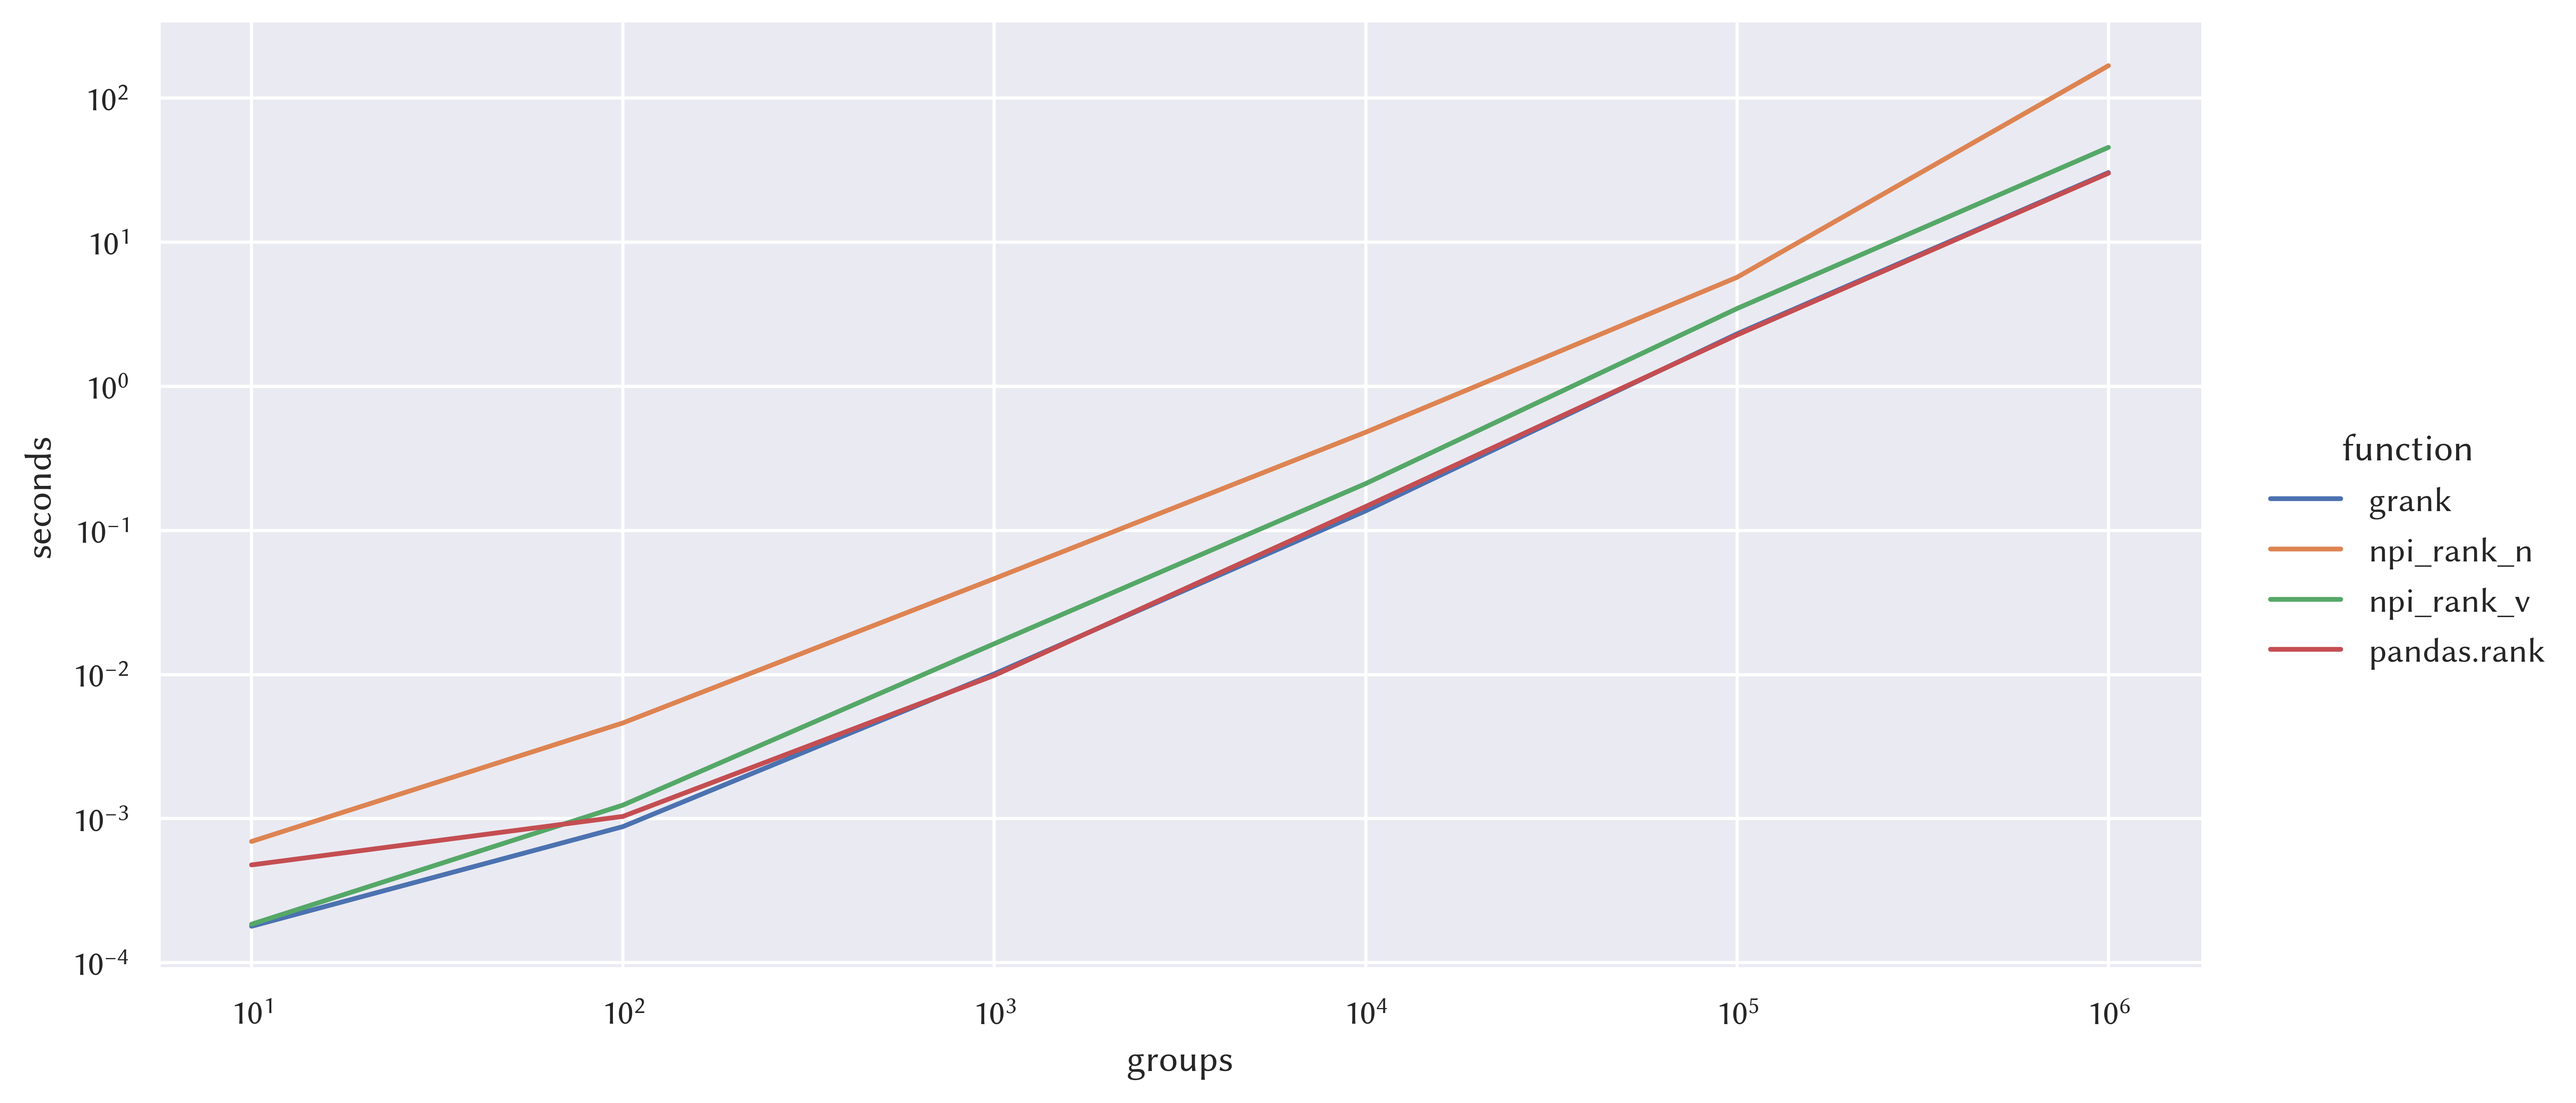
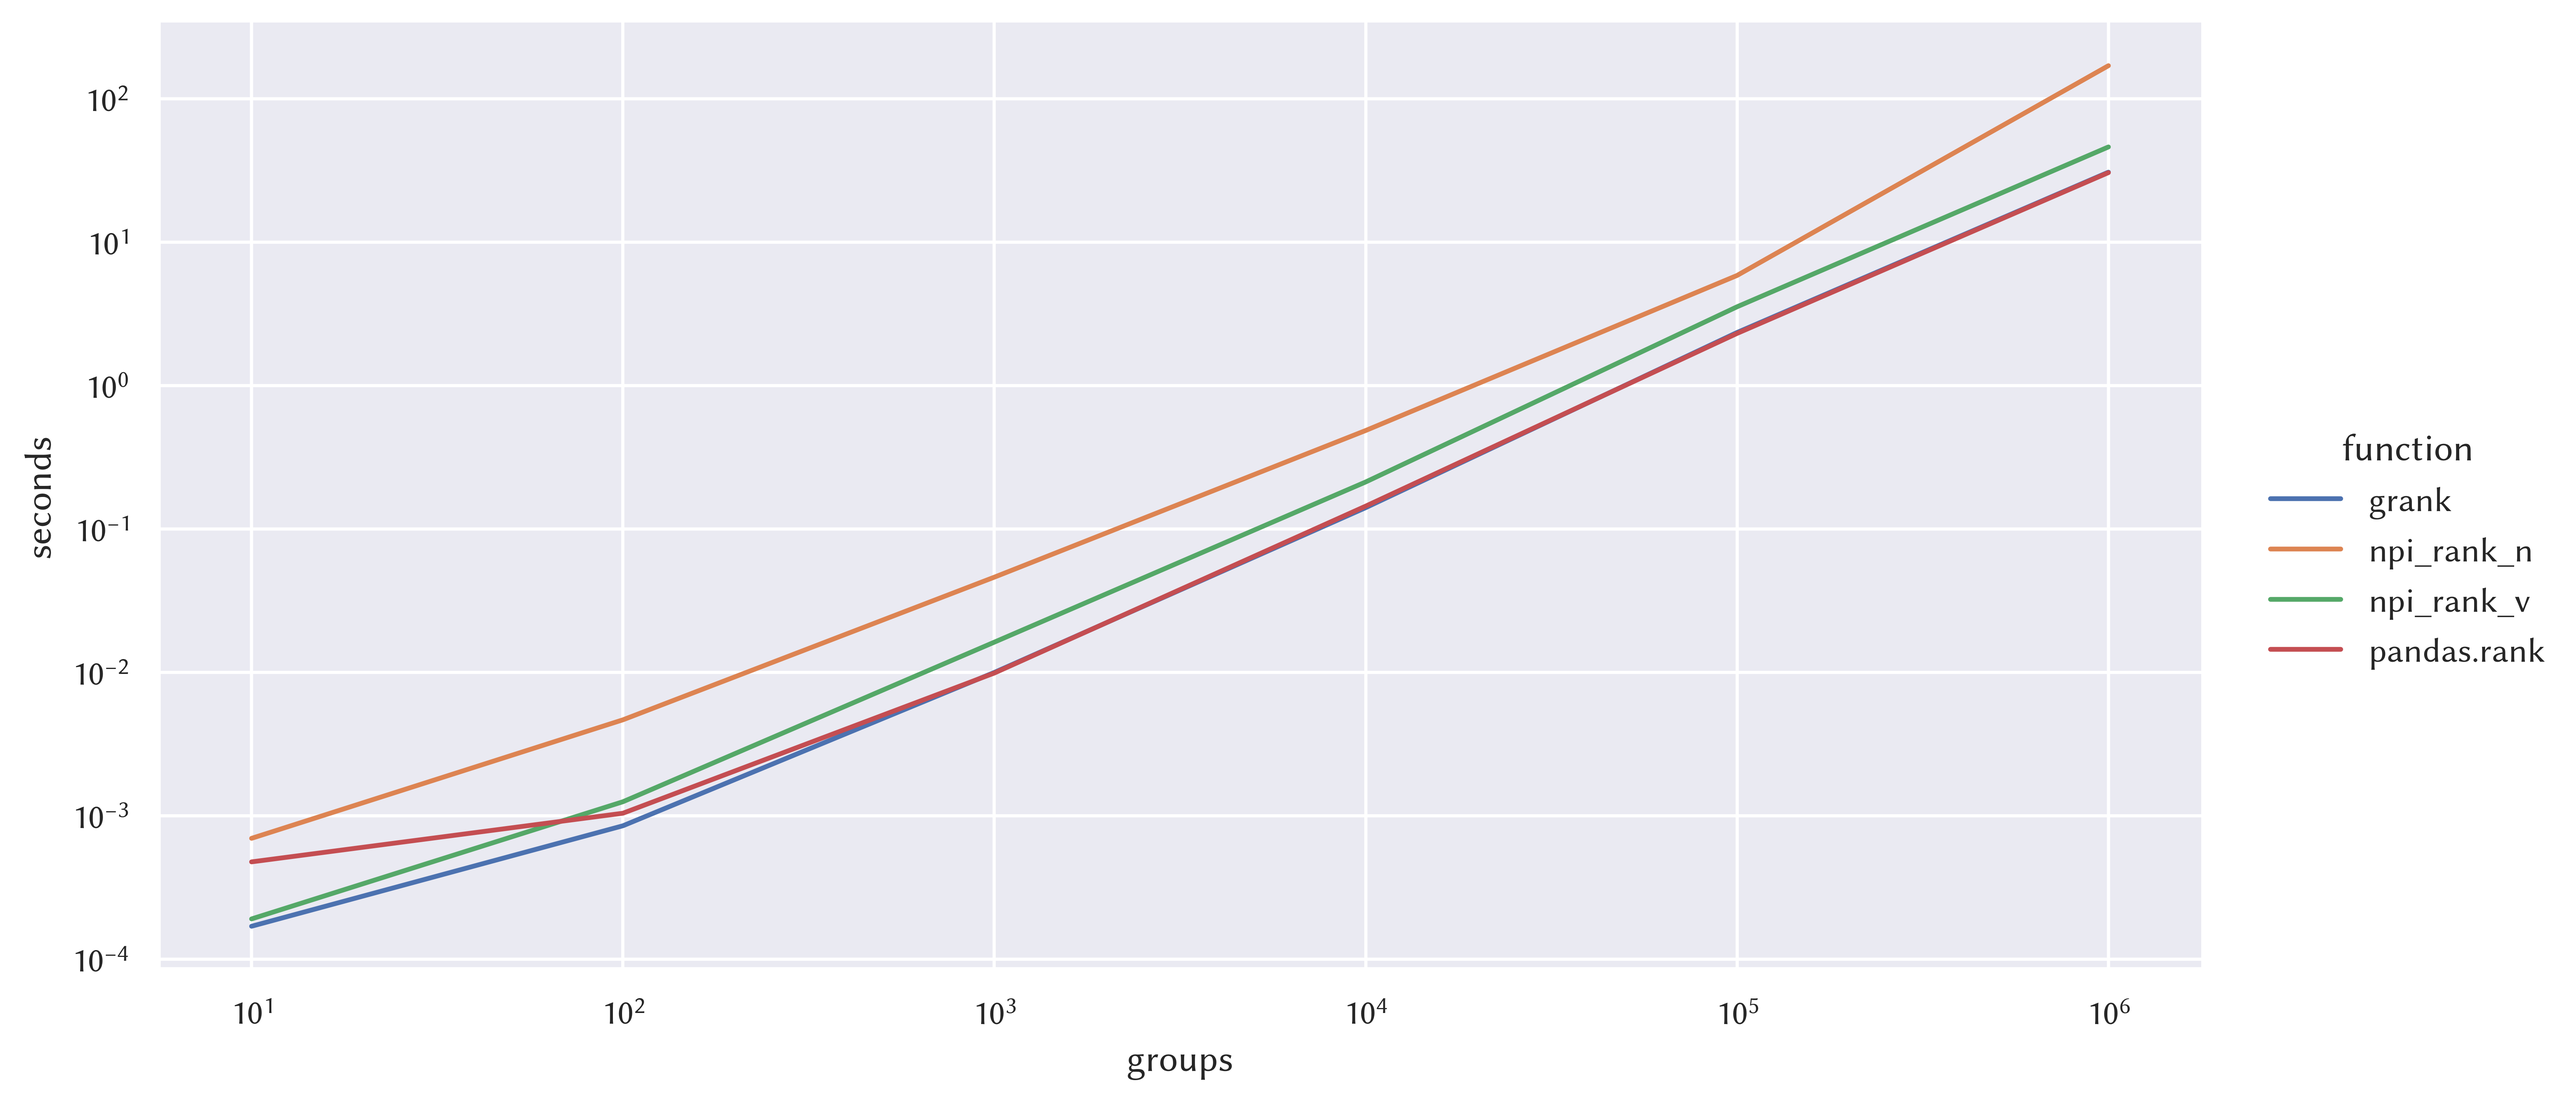
update benchmarking

diff --git a/README.md b/README.md
@@ -34,12 +34,12 @@ assert_array_equal(ranks, [1, 2, 4, 2.5, 2, 2.5, 4, 1.5, 1.5, 2])
 
 |   groups |   grank |   npi_rank_n |   npi_rank_v |   pandas.rank |
 |---------:|--------:|-------------:|-------------:|--------------:|
-|       10 |   0.000 |        0.001 |        0.000 |         0.001 |
+|       10 |   0.000 |        0.011 |        0.000 |         0.001 |
 |      100 |   0.001 |        0.005 |        0.001 |         0.001 |
-|     1000 |   0.012 |        0.048 |        0.016 |         0.010 |
-|    10000 |   0.150 |        0.506 |        0.220 |         0.145 |
-|   100000 |   2.509 |        6.140 |        3.606 |         2.320 |
-|  1000000 |  32.441 |      176.049 |       47.000 |        30.271 |
+|     1000 |   0.013 |        0.049 |        0.018 |         0.010 |
+|    10000 |   0.148 |        0.500 |        0.216 |         0.138 |
+|   100000 |   2.489 |        6.046 |        3.544 |         2.293 |
+|  1000000 |  31.939 |      170.478 |       46.090 |        30.219 |
 
 ### Min
 
@@ -50,9 +50,9 @@ assert_array_equal(ranks, [1, 2, 4, 2.5, 2, 2.5, 4, 1.5, 1.5, 2])
 |       10 |   0.000 |        0.001 |        0.000 |         0.000 |
 |      100 |   0.001 |        0.005 |        0.001 |         0.001 |
 |     1000 |   0.010 |        0.046 |        0.016 |         0.010 |
-|    10000 |   0.137 |        0.480 |        0.211 |         0.146 |
-|   100000 |   2.313 |        5.707 |        3.464 |         2.274 |
-|  1000000 |  30.427 |      167.877 |       45.522 |        30.126 |
+|    10000 |   0.141 |        0.486 |        0.213 |         0.144 |
+|   100000 |   2.342 |        5.850 |        3.539 |         2.308 |
+|  1000000 |  30.712 |      169.692 |       46.045 |        30.498 |
 
 ### Max
 
@@ -62,10 +62,10 @@ assert_array_equal(ranks, [1, 2, 4, 2.5, 2, 2.5, 4, 1.5, 1.5, 2])
 |---------:|--------:|-------------:|-------------:|--------------:|
 |       10 |   0.000 |        0.001 |        0.000 |         0.000 |
 |      100 |   0.001 |        0.004 |        0.001 |         0.001 |
-|     1000 |   0.010 |        0.044 |        0.016 |         0.010 |
-|    10000 |   0.131 |        0.463 |        0.211 |         0.143 |
-|   100000 |   2.293 |        5.632 |        3.477 |         2.262 |
-|  1000000 |  29.894 |      165.716 |       45.775 |        29.880 |
+|     1000 |   0.010 |        0.045 |        0.016 |         0.010 |
+|    10000 |   0.132 |        0.463 |        0.212 |         0.138 |
+|   100000 |   2.292 |        5.643 |        3.481 |         2.292 |
+|  1000000 |  30.259 |      165.771 |       46.828 |        30.206 |
 
 ### Dense
 
@@ -73,12 +73,12 @@ assert_array_equal(ranks, [1, 2, 4, 2.5, 2, 2.5, 4, 1.5, 1.5, 2])
 
 |   groups |   grank |   npi_rank_n |   npi_rank_v |   pandas.rank |
 |---------:|--------:|-------------:|-------------:|--------------:|
-|       10 |   0.000 |        0.001 |        0.000 |         0.001 |
-|      100 |   0.001 |        0.005 |        0.001 |         0.001 |
-|     1000 |   0.010 |        0.045 |        0.011 |         0.011 |
-|    10000 |   0.131 |        0.473 |        0.133 |         0.141 |
-|   100000 |   2.287 |        5.687 |        2.270 |         2.300 |
-|  1000000 |  30.178 |      167.345 |       29.952 |        29.684 |
+|       10 |   0.000 |        0.001 |        0.000 |         0.000 |
+|      100 |   0.001 |        0.004 |        0.001 |         0.001 |
+|     1000 |   0.010 |        0.043 |        0.010 |         0.010 |
+|    10000 |   0.125 |        0.460 |        0.130 |         0.136 |
+|   100000 |   2.257 |        5.443 |        2.269 |         2.277 |
+|  1000000 |  29.825 |      165.607 |       30.051 |        30.539 |
 
 ### Ordinal
 
@@ -86,9 +86,9 @@ assert_array_equal(ranks, [1, 2, 4, 2.5, 2, 2.5, 4, 1.5, 1.5, 2])
 
 |   groups |   grank |   npi_rank_n |   npi_rank_v |   pandas.rank |
 |---------:|--------:|-------------:|-------------:|--------------:|
-|       10 |   0.000 |        0.001 |        0.000 |         0.000 |
-|      100 |   0.001 |        0.004 |        0.001 |         0.001 |
-|     1000 |   0.009 |        0.044 |        0.015 |         0.010 |
-|    10000 |   0.129 |        0.469 |        0.191 |         0.138 |
-|   100000 |   2.149 |        5.551 |        3.103 |         2.263 |
-|  1000000 |  28.701 |      166.301 |       41.636 |        29.796 |
+|       10 |   0.000 |        0.001 |        0.000 |         0.001 |
+|      100 |   0.001 |        0.005 |        0.001 |         0.001 |
+|     1000 |   0.010 |        0.046 |        0.015 |         0.011 |
+|    10000 |   0.127 |        0.483 |        0.193 |         0.141 |
+|   100000 |   2.205 |        5.760 |        3.221 |         2.335 |
+|  1000000 |  28.985 |      169.427 |       42.822 |        30.575 |

diff --git a/assets/dense.md b/assets/dense.md
@@ -1,8 +1,8 @@
 |   groups |   grank |   npi_rank_n |   npi_rank_v |   pandas.rank |
 |---------:|--------:|-------------:|-------------:|--------------:|
-|       10 |   0.000 |        0.001 |        0.000 |         0.001 |
-|      100 |   0.001 |        0.005 |        0.001 |         0.001 |
-|     1000 |   0.010 |        0.045 |        0.011 |         0.011 |
-|    10000 |   0.131 |        0.473 |        0.133 |         0.141 |
-|   100000 |   2.287 |        5.687 |        2.270 |         2.300 |
-|  1000000 |  30.178 |      167.345 |       29.952 |        29.684 |
+|       10 |   0.000 |        0.001 |        0.000 |         0.000 |
+|      100 |   0.001 |        0.004 |        0.001 |         0.001 |
+|     1000 |   0.010 |        0.043 |        0.010 |         0.010 |
+|    10000 |   0.125 |        0.460 |        0.130 |         0.136 |
+|   100000 |   2.257 |        5.443 |        2.269 |         2.277 |
+|  1000000 |  29.825 |      165.607 |       30.051 |        30.539 |

diff --git a/assets/ordinal.md b/assets/ordinal.md
@@ -1,8 +1,8 @@
 |   groups |   grank |   npi_rank_n |   npi_rank_v |   pandas.rank |
 |---------:|--------:|-------------:|-------------:|--------------:|
-|       10 |   0.000 |        0.001 |        0.000 |         0.000 |
-|      100 |   0.001 |        0.004 |        0.001 |         0.001 |
-|     1000 |   0.009 |        0.044 |        0.015 |         0.010 |
-|    10000 |   0.129 |        0.469 |        0.191 |         0.138 |
-|   100000 |   2.149 |        5.551 |        3.103 |         2.263 |
-|  1000000 |  28.701 |      166.301 |       41.636 |        29.796 |
+|       10 |   0.000 |        0.001 |        0.000 |         0.001 |
+|      100 |   0.001 |        0.005 |        0.001 |         0.001 |
+|     1000 |   0.010 |        0.046 |        0.015 |         0.011 |
+|    10000 |   0.127 |        0.483 |        0.193 |         0.141 |
+|   100000 |   2.205 |        5.760 |        3.221 |         2.335 |
+|  1000000 |  28.985 |      169.427 |       42.822 |        30.575 |

diff --git a/assets/average.md b/assets/average.md
@@ -1,8 +1,8 @@
 |   groups |   grank |   npi_rank_n |   npi_rank_v |   pandas.rank |
 |---------:|--------:|-------------:|-------------:|--------------:|
-|       10 |   0.000 |        0.001 |        0.000 |         0.001 |
+|       10 |   0.000 |        0.011 |        0.000 |         0.001 |
 |      100 |   0.001 |        0.005 |        0.001 |         0.001 |
-|     1000 |   0.012 |        0.048 |        0.016 |         0.010 |
-|    10000 |   0.150 |        0.506 |        0.220 |         0.145 |
-|   100000 |   2.509 |        6.140 |        3.606 |         2.320 |
-|  1000000 |  32.441 |      176.049 |       47.000 |        30.271 |
+|     1000 |   0.013 |        0.049 |        0.018 |         0.010 |
+|    10000 |   0.148 |        0.500 |        0.216 |         0.138 |
+|   100000 |   2.489 |        6.046 |        3.544 |         2.293 |
+|  1000000 |  31.939 |      170.478 |       46.090 |        30.219 |

diff --git a/assets/max.md b/assets/max.md
@@ -2,7 +2,7 @@
 |---------:|--------:|-------------:|-------------:|--------------:|
 |       10 |   0.000 |        0.001 |        0.000 |         0.000 |
 |      100 |   0.001 |        0.004 |        0.001 |         0.001 |
-|     1000 |   0.010 |        0.044 |        0.016 |         0.010 |
-|    10000 |   0.131 |        0.463 |        0.211 |         0.143 |
-|   100000 |   2.293 |        5.632 |        3.477 |         2.262 |
-|  1000000 |  29.894 |      165.716 |       45.775 |        29.880 |
+|     1000 |   0.010 |        0.045 |        0.016 |         0.010 |
+|    10000 |   0.132 |        0.463 |        0.212 |         0.138 |
+|   100000 |   2.292 |        5.643 |        3.481 |         2.292 |
+|  1000000 |  30.259 |      165.771 |       46.828 |        30.206 |

diff --git a/assets/min.md b/assets/min.md
@@ -3,6 +3,6 @@
 |       10 |   0.000 |        0.001 |        0.000 |         0.000 |
 |      100 |   0.001 |        0.005 |        0.001 |         0.001 |
 |     1000 |   0.010 |        0.046 |        0.016 |         0.010 |
-|    10000 |   0.137 |        0.480 |        0.211 |         0.146 |
-|   100000 |   2.313 |        5.707 |        3.464 |         2.274 |
-|  1000000 |  30.427 |      167.877 |       45.522 |        30.126 |
+|    10000 |   0.141 |        0.486 |        0.213 |         0.144 |
+|   100000 |   2.342 |        5.850 |        3.539 |         2.308 |
+|  1000000 |  30.712 |      169.692 |       46.045 |        30.498 |
